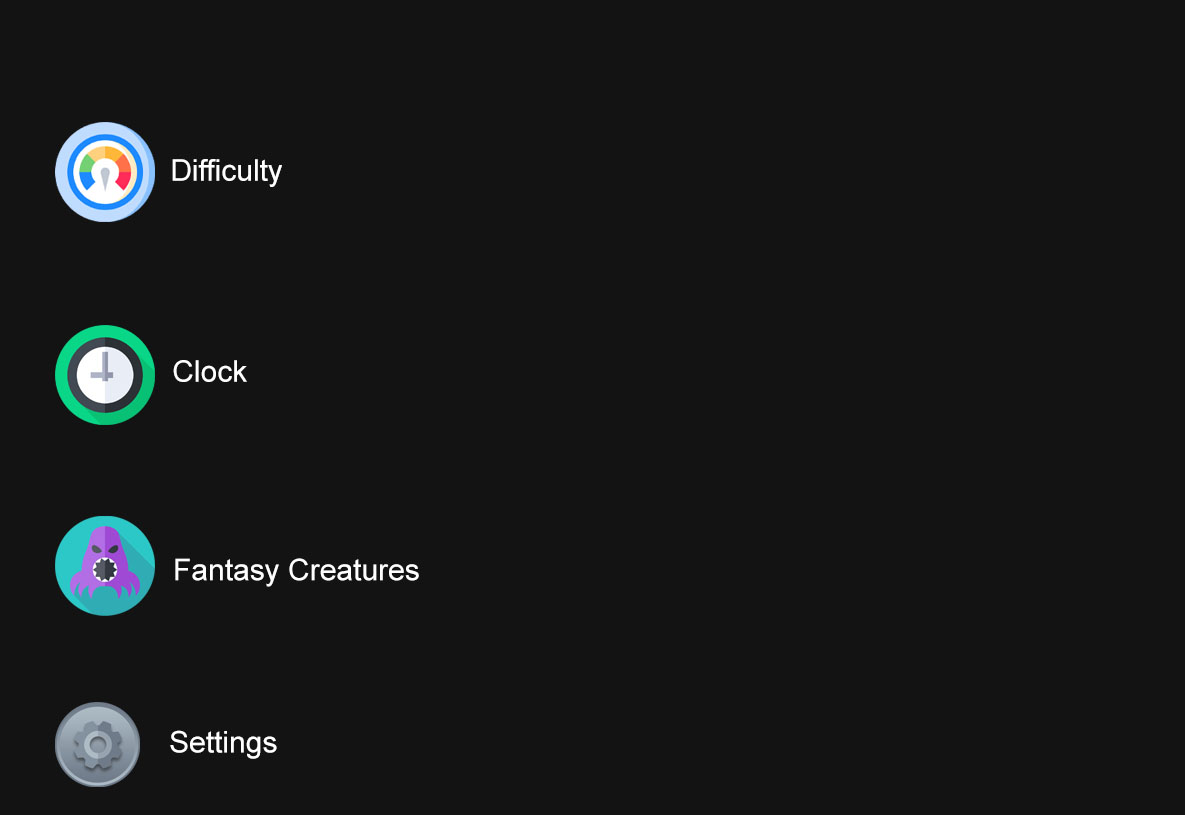
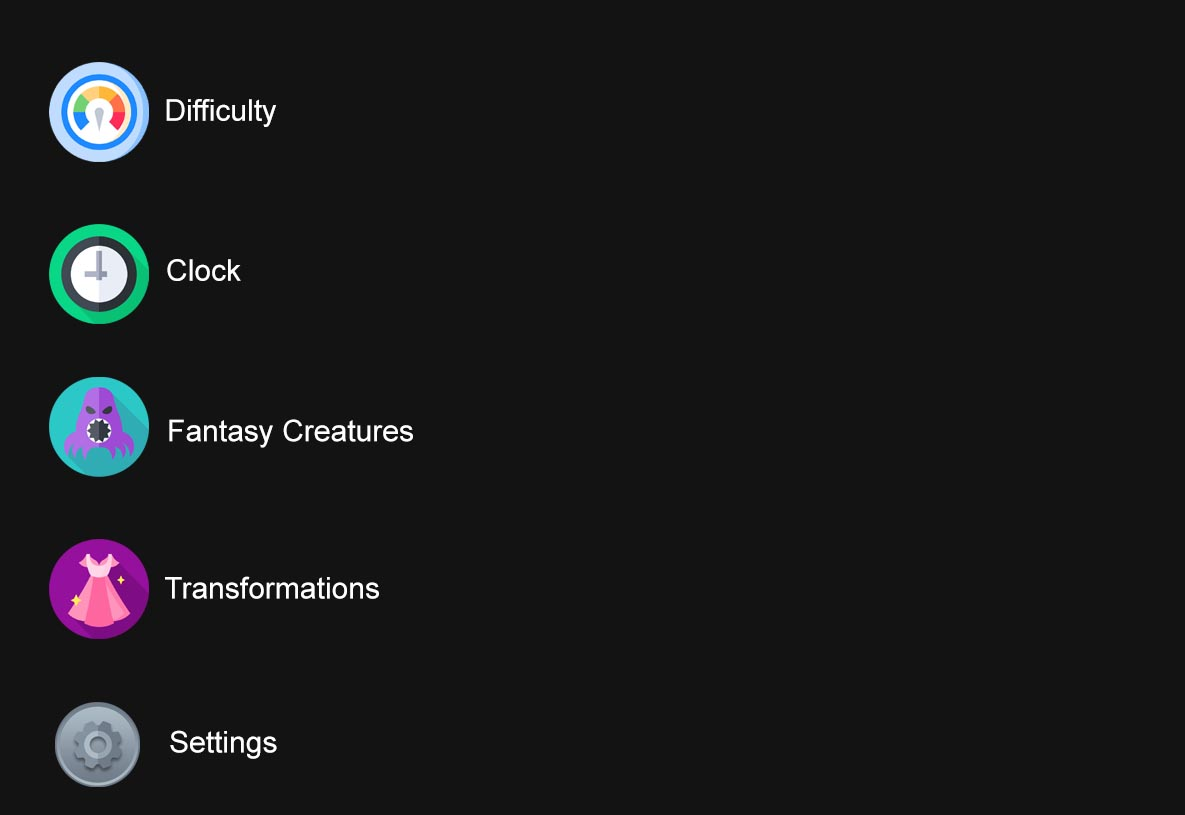
bug Fix 1

Changed region(s): [[0.0312, 0.0613, 0.3435, 0.5828], [0.0312, 0.6135, 0.3435, 0.7975]]

diff --git a/scripts/room/room028.js b/scripts/room/room028.js
@@ -22,6 +22,7 @@ room28.main = function () {
 
     var txtDisplay = room28.dreams();
     var forcedTransformation = null
+    let trasnformationSetting = null;
 
     cl.hairgrowth();
     var maxE = gv.get("maxenergy");
@@ -70,6 +71,9 @@ room28.main = function () {
                 break;
             case "xdressPoints":
                 xdressPoints = gv.st[i].t;
+                break;
+            case "transformation":
+                trasnformationSetting = gv.st[i].t;
                 break;
         }
     }
@@ -202,7 +206,7 @@ room28.main = function () {
         if (cl.c.chest === 0 && levels.st[12].l > 0) {
             chat(0, 28);
         }
-        else if (levels.get("xdress").l > 0 && cl.c.chest > 0) {
+        else if (levels.get("xdress").l > 0 && cl.c.chest > 0 && trasnformationSetting !== "voluntaryoff") {
             nav.button({
                 "type": "img",
                 "name": "xd",
@@ -385,17 +389,49 @@ room28.endSleepyTime = function (hasTimeout) {
 };
 
 room28.btnclick = function (name) {
+    let tText = "";
+    let xline;
+    let xtop = 600 * g.ratio;
+    let xleft = 1634 * g.ratio;
+    let xwidth = 271 * g.ratio;
     if (name === "qquit") {
+        nav.button({
+            "type": "img",
+            "name": "bigDisplay",
+            "left": 1645,
+            "top": 153,
+            "width": 250,
+            "height": 400,
+            "image": "28_transformation/qquit.png"
+        }, 28);
+
+        //qquit
+        tText += '<img src="./images/room/28_transformation/qquit_close.png" class="room-btn rom-event" data-name="qquit_confirm" data-room="28" style="width:' + (271 * g.ratio) + 'px; height:' + (72 * g.ratio) + 'px; position:relative; margin-top:' + (10 * g.ratio) + 'px;" />';
+
+        tText += '<div class="char-20" style="font-size: ' + 20 * g.ratio + 'px; margin-top: ' + (50 * g.ratio) + 'px;">' +
+            "Close and hide until you turn it back on in the settings. " +
+            '</div>';
+
+        tText += '<img src="./images/room/28_transformation/qquit_off.png" class="room-btn rom-event" data-name="qquit_hide" data-room="28" style="width:' + (271 * g.ratio) + 'px; height:' + (72 * g.ratio) + 'px; position:relative; margin-top:' + (20 * g.ratio) + 'px;" />';
+
+        xline = '<div class="room-img" data-name="bigDisplay" data-room="28" style="top:' + xtop + 'px; left:' + xleft + 'px; width:' + xwidth + 'px; color: #ffffff; text-align:center;" >' + tText + '</div>';
+
+        $('#room-buttons').append(xline);
+        //room28.endSleepyTime(false);
+    }
+    else if (name === "qquit_confirm") {
         room28.endSleepyTime(false);
     }
-    if (name.startsWith("qxdress_")) {
+    else if (name === "qquit_hide") {
+        gv.set("transformation", "voluntaryoff");
+        room28.endSleepyTime(false);
+    }
+    else if (name.startsWith("qxdress_")) {
         var id = parseInt(name.replace("qxdress_", ""));
         var points = levels.get("xdress").l
         var parentAch = null;
-        var tText = "";
-        xtop = 600 * g.ratio;
-        xleft = 1634 * g.ratio;
-        xwidth = 271 * g.ratio;
+        tText = "";
+        
         if (qdress.st[id].pId !== null) {
             parentAch = qdress.st[qdress.st[id].pId].ach ? null : qdress.st[qdress.st[id].pId].name;
         }

diff --git a/scripts/phone.js b/scripts/phone.js
@@ -231,6 +231,8 @@ phone.settings = function () {
     var fantasyCreatures = gv.get("fantasyCreatures");
     var difficulty = gv.get("difficulty");
     var clock24 = gv.get("clock24");
+    let transformation = gv.get("transformation");
+    
     nav.button({
         "type": "zimg",
         "name": "phone_",
@@ -248,13 +250,16 @@ phone.settings = function () {
         { y: 1, x: 1, b: 2, n: "clock24", i: "clock24", active: clock24 === "24" },
         { y: 2, x: 0, b: 2, n: "fantOff", i: "fantOff", active: !fantasyCreatures },
         { y: 2, x: 1, b: 2, n: "fantOn", i: "fantOn", active: fantasyCreatures },
+        { y: 3, x: 0, b: 3, n: "d_on", i: "d_on", active: transformation === "voluntary" },
+        { y: 3, x: 1, b: 3, n: "d_off", i: "d_off", active: transformation === "voluntaryoff" },
+        { y: 3, x: 2, b: 3, n: "d_auto", i: "d_auto", active: transformation === "forced" },
     ];
     $.each(settings, function (i, v) {
         nav.button({
             "type": "zbtn",
             "name": "phone_setting_" + v.n,
             "left": 925 + (v.x * (600/v.b)),
-            "top": 300 + (v.y * 200),
+            "top": 240 + (v.y * 160),
             "width": 600/v.b,
             "height": 50,
             "image": "999_phone/" + v.i + "_" + (v.active ? "active" : "inactive") + ".png",
@@ -877,6 +882,18 @@ room9999.btnclick = function (name) {
             case "phone_setting_fantOff":
             case "phone_setting_fantOn":
                 gv.set("fantasyCreatures", name === "phone_setting_fantOn");
+                phone.settings();
+                break;
+            case "phone_setting_d_on":
+                gv.set("transformation", "voluntary");
+                phone.settings();
+                break;
+            case "phone_setting_d_off":
+                gv.set("transformation", "voluntaryoff");
+                phone.settings();
+                break;
+            case "phone_setting_d_auto":
+                gv.set("transformation", "forced");
                 phone.settings();
                 break;
             case "phone_save_save_0":

diff --git a/scripts/rape.js b/scripts/rape.js
@@ -342,6 +342,19 @@ room1004.btnclick = function (name) {
             nav.killbuttonStartsWith("b1004-");
             rape.rolldice(true);
             break;
+        case "struggleRape0":
+            nav.killbuttonStartsWith("b1004");
+            nav.killbutton("r1004bg");
+            nav.button({
+                "type": "img",
+                "name": "r1004bg",
+                "left": 0,
+                "top": 0,
+                "width": 1920,
+                "height": 1080,
+                "image": "1004_rape/" + rape.char.rape1
+            }, 1004);
+            break;
         case "submit":
             if (levels.get("sub").l < 4) {
                 chat(0, 1004); //not submissive enough

diff --git a/scripts/room/room316.js b/scripts/room/room316.js
@@ -550,6 +550,9 @@ room316.btnclick = function (name) {
             cl.nude();
             chat(140, 316);
             break;
+        case "room318":
+            char.room(318);
+            break;
         case "reset":
             char.room(316);
             break;
@@ -877,6 +880,7 @@ room316.chatcatch = function (callback) {
         case "bedroom":
             nav.killall();
             nav.bg("316_livingroom/bg.jpg");
+            nav.next("room318")
             nav.buildnav([318]);
             break;
         default:

diff --git a/scripts/nav.js b/scripts/nav.js
@@ -273,6 +273,9 @@ nav.killbuttonStartsWith = function (name) {
 
 nav.buildnav = function (roomIDList) {
     var i;
+    if (!$('#room_footer').is(":visible") && !$(".room-speachGroup").is(":visible"))
+        $('#room_footer').show();
+
     for (i = 0; i < roomIDList.length; i++) {
         $.each(g.rooms, function (j, u) {
             if (u.roomID === roomIDList[i]) {

diff --git a/scripts/rapeChar.js b/scripts/rapeChar.js
@@ -14,6 +14,7 @@
                 fight: g.rand(10, 30),
                 energy: 100,
                 rape0: "rape0_first.png",
+                rape1: "rape0_second.png"
             },
 
         ];
